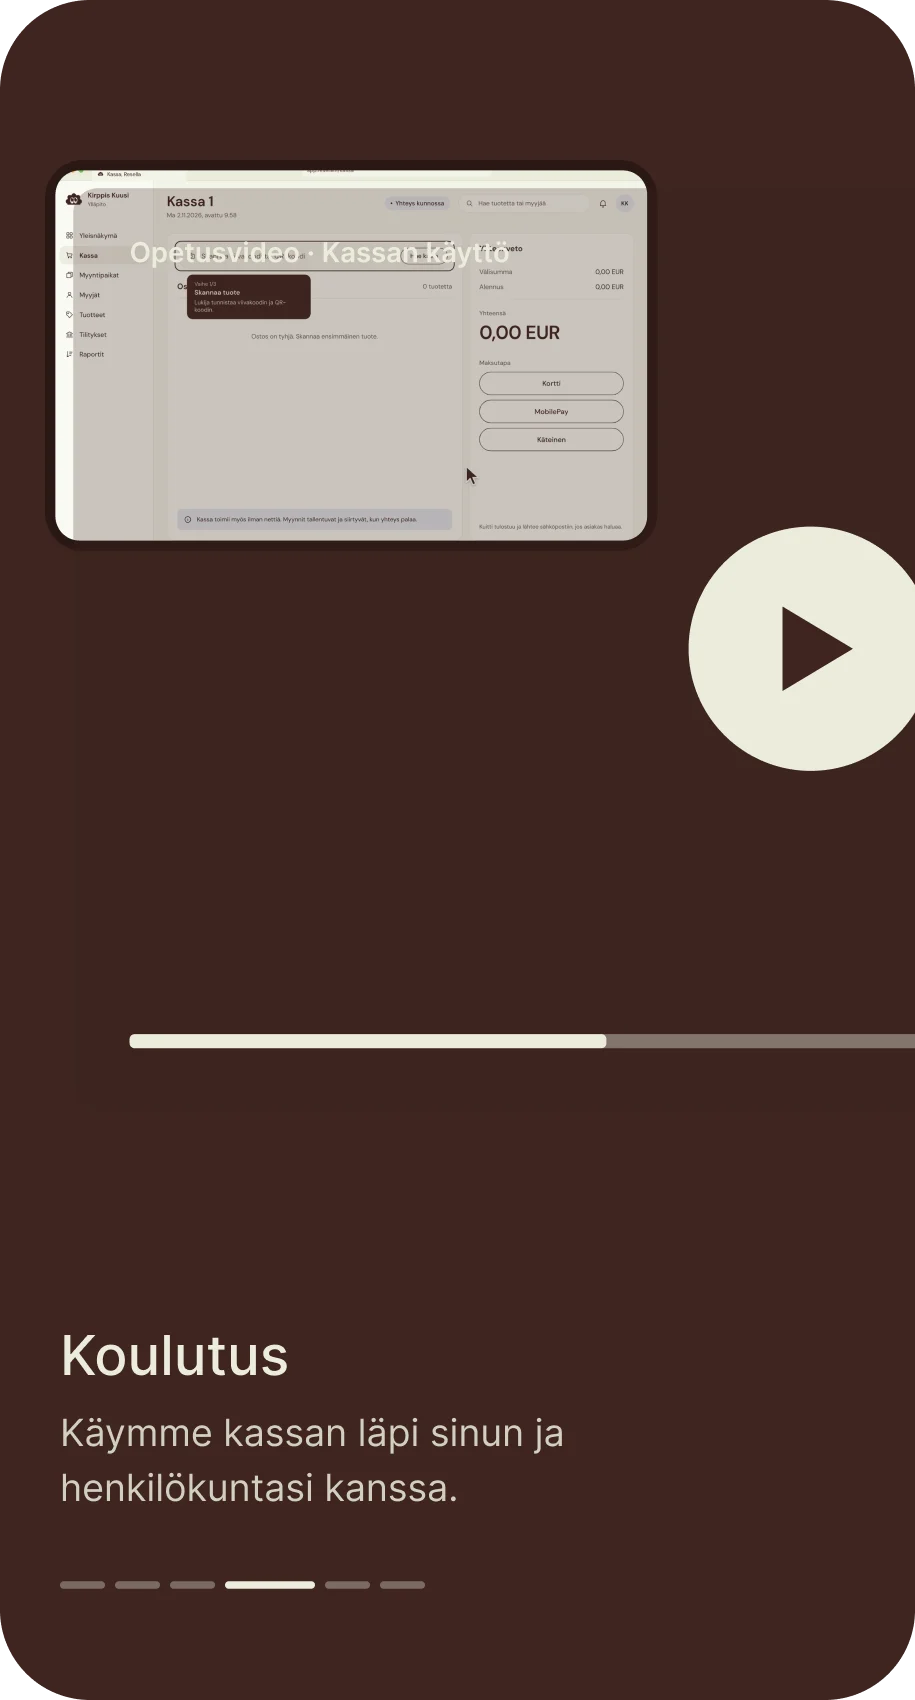
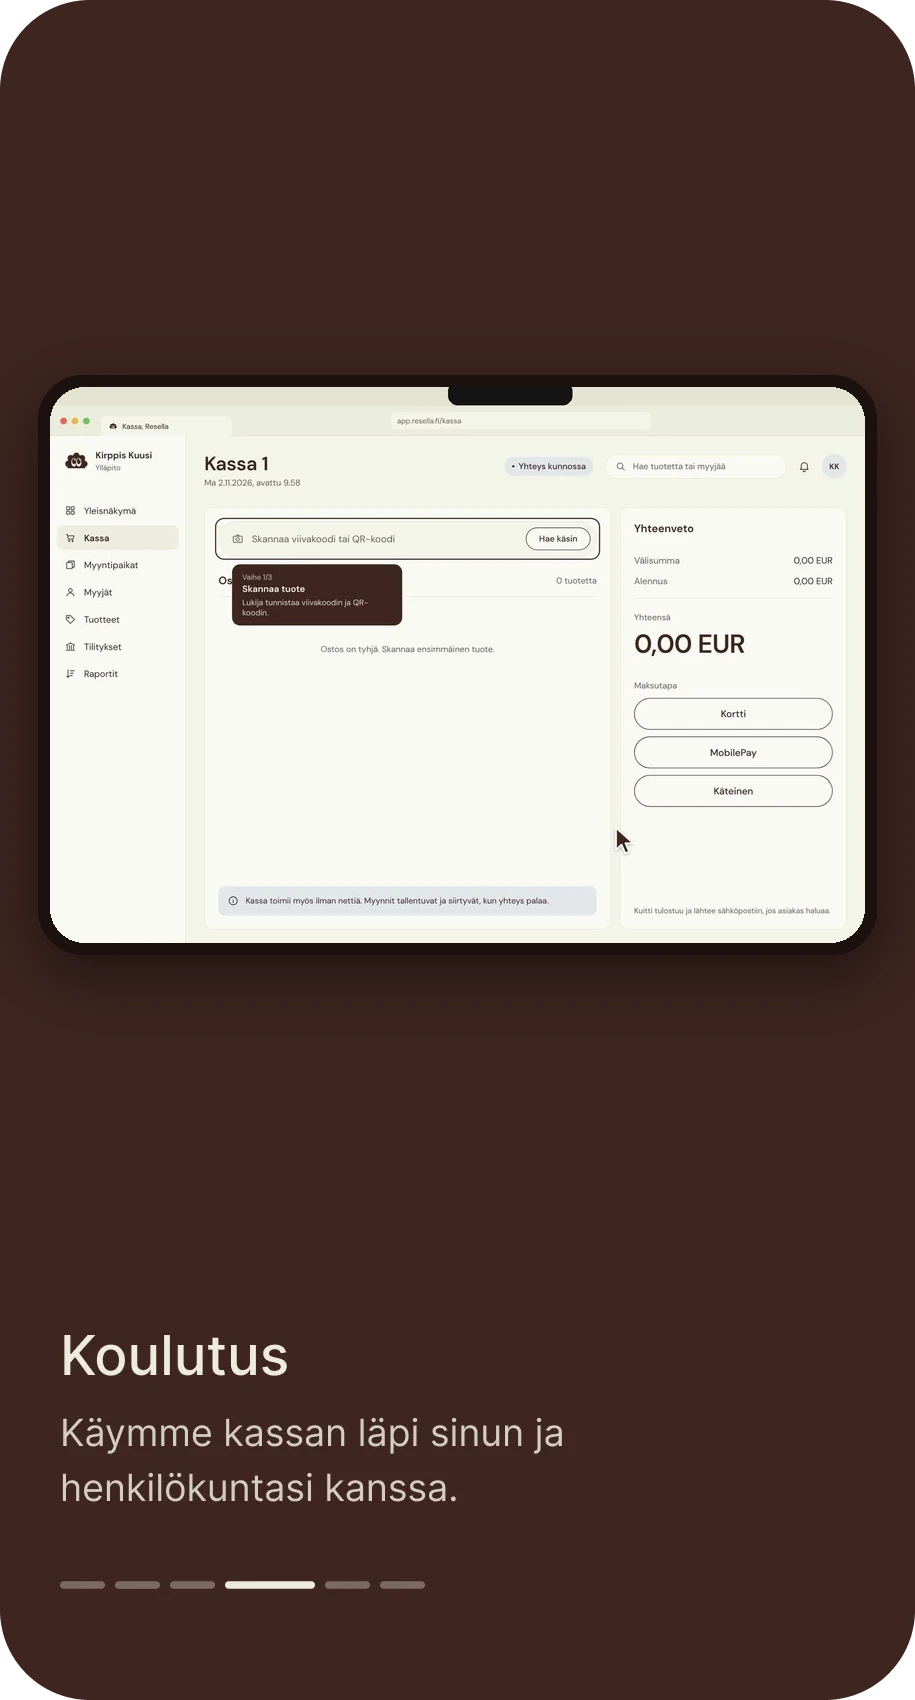
Mobiili: Koulutus-kortin rikkinäinen mockup korvattu kassanäkymällä
Claude-Session: https://claude.ai/code/session_01GFdz22wxCZYfy3LenkEfZr

diff --git a/resella.html b/resella.html
@@ -1055,7 +1055,7 @@ section.fd{background:var(--blue)}
     <img src="assets/m/s1.webp?v=6" alt="Helpotusta vaihtoon. Vaihto hoituu ilman, että kirppis menee kiinni. Esittely: aloitetaan 30 minuutin demolla, jossa näet oman kirppiksesi Resellassa.">
     <img src="assets/m/s2.webp?v=6" alt="Määritys: rakennamme järjestelmän kirppiksesi näköiseksi, pöydät, hinnat, provisio ja oma ilme." loading="lazy">
     <img src="assets/m/s3.webp?v=6" alt="Asennus: tuomme kassan ja laitteet paikan päälle ja asennamme ne valmiiksi." loading="lazy">
-    <img src="assets/m/s4.webp?v=6" alt="Koulutus: käymme kassan läpi sinun ja henkilökuntasi kanssa." loading="lazy">
+    <img src="assets/m/s4.webp?v=7" alt="Koulutus: käymme kassan läpi sinun ja henkilökuntasi kanssa." loading="lazy">
     <img src="assets/m/s5.webp?v=6" alt="Ensimmäinen myynti: olemme paikalla, kun ensimmäiset tuotteet myydään." loading="lazy">
     <img src="assets/m/s6.webp?v=6" alt="Tilitykset: käymme ensimmäiset tilitykset läpi yhdessä." loading="lazy">
   </div>
